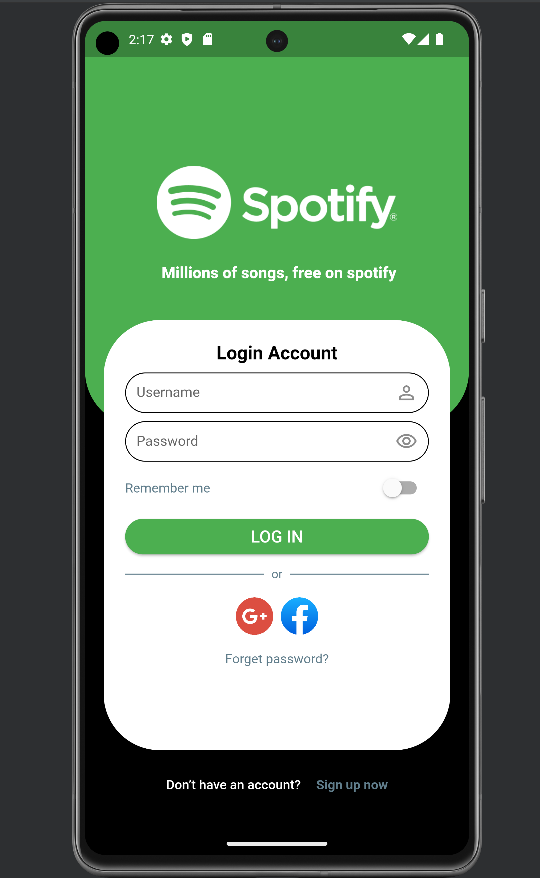
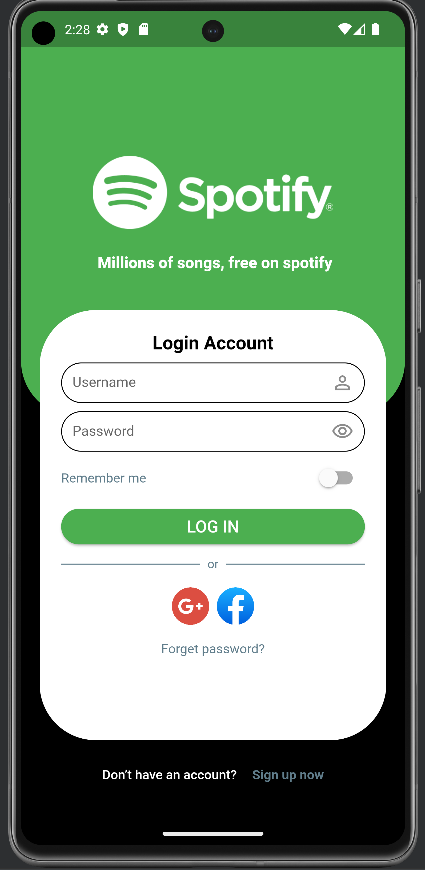
feat:...add image

diff --git a/README.md b/README.md
@@ -17,6 +17,11 @@ samples, guidance on mobile development, and a full API reference.
 
 
 ![CHEESE!](assets/images/spotify_login.png)
+![CHEESE!](assets/images/spotify_register.png)
+![CHEESE!](assets/images/first_screen.png)
+![CHEESE!](assets/images/2_screen.png)
+![CHEESE!](assets/images/3_screen.png)
+
 
 
 
